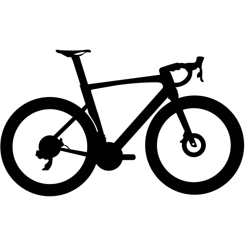
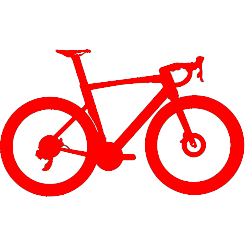
add function to change hue of bike-stubgraphics

Changed region(s): [[0.0, 0.2, 1.0, 0.8]]

diff --git a/bookingPlattform.html b/bookingPlattform.html
@@ -49,6 +49,16 @@
             display: flex;
             flex-direction: row;
         }
+        /* todo pass an according parameter, or change the selector class depending on some condition */
+        img.dynamicHueImage0 {
+            filter: hue-rotate(0deg);
+        }
+        img.dynamicHueImage270 {
+            filter: hue-rotate(270deg);
+        }
+        img.dynamicHueImage300 {
+            filter: hue-rotate(300deg);
+        }
 
         /* helper style for visually identifying ToDos*/
         .todo {
@@ -89,7 +99,7 @@
         <div class="flexRow">
                     <div class="bikeToChooseEntry">
                         <p class="stubImage">Variant A
-                            <img src="./stub_mtb_category.png"  alt="stub mtb categoryicon" width="100%" heigt="auto">
+                            <img class="dynamicHueImage0" src="./stub_mtb_category.png"  alt="stub mtb categoryicon" width="100%" heigt="auto">
                         </p>
                         <label >Bikesize:
                         </label>
@@ -105,7 +115,7 @@
                     </div>
                     <div class="bikeToChooseEntry">
                         <p class="stubImage">Variant B
-                            <img src="./stub_road_category.png"  alt="stub road categoryicon" width="100%" heigt="auto">
+                            <img class="dynamicHueImage270" src="./stub_road_category.png"  alt="stub road categoryicon" width="100%" heigt="auto">
                         </p>
                         <label >Bikesize:
                         </label>
@@ -121,7 +131,7 @@
                     </div>
                     <div class="bikeToChooseEntry">
                         <p class="stubImage">Variant C
-                            <img src="./stub_touring_category.png"  alt="stub touring categoryicon" width="100%" heigt="auto">
+                            <img class="dynamicHueImage300" src="./stub_touring_category.png"  alt="stub touring categoryicon" width="100%" heigt="auto">
                         </p>
                         <label >Bikesize:
                         </label>
